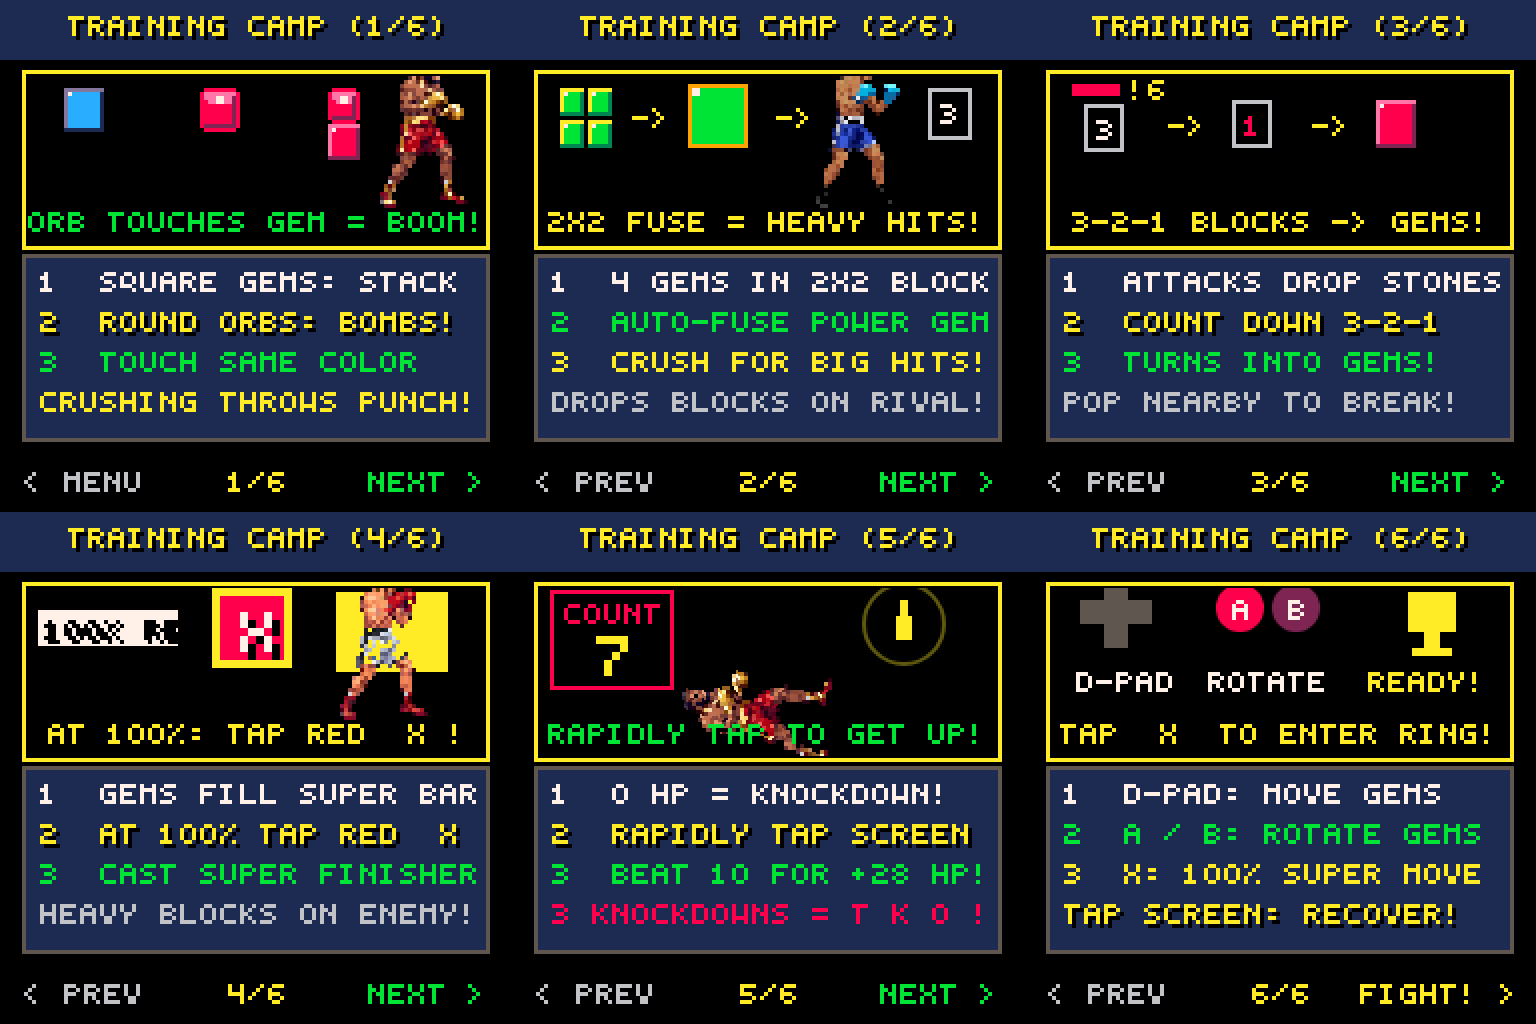
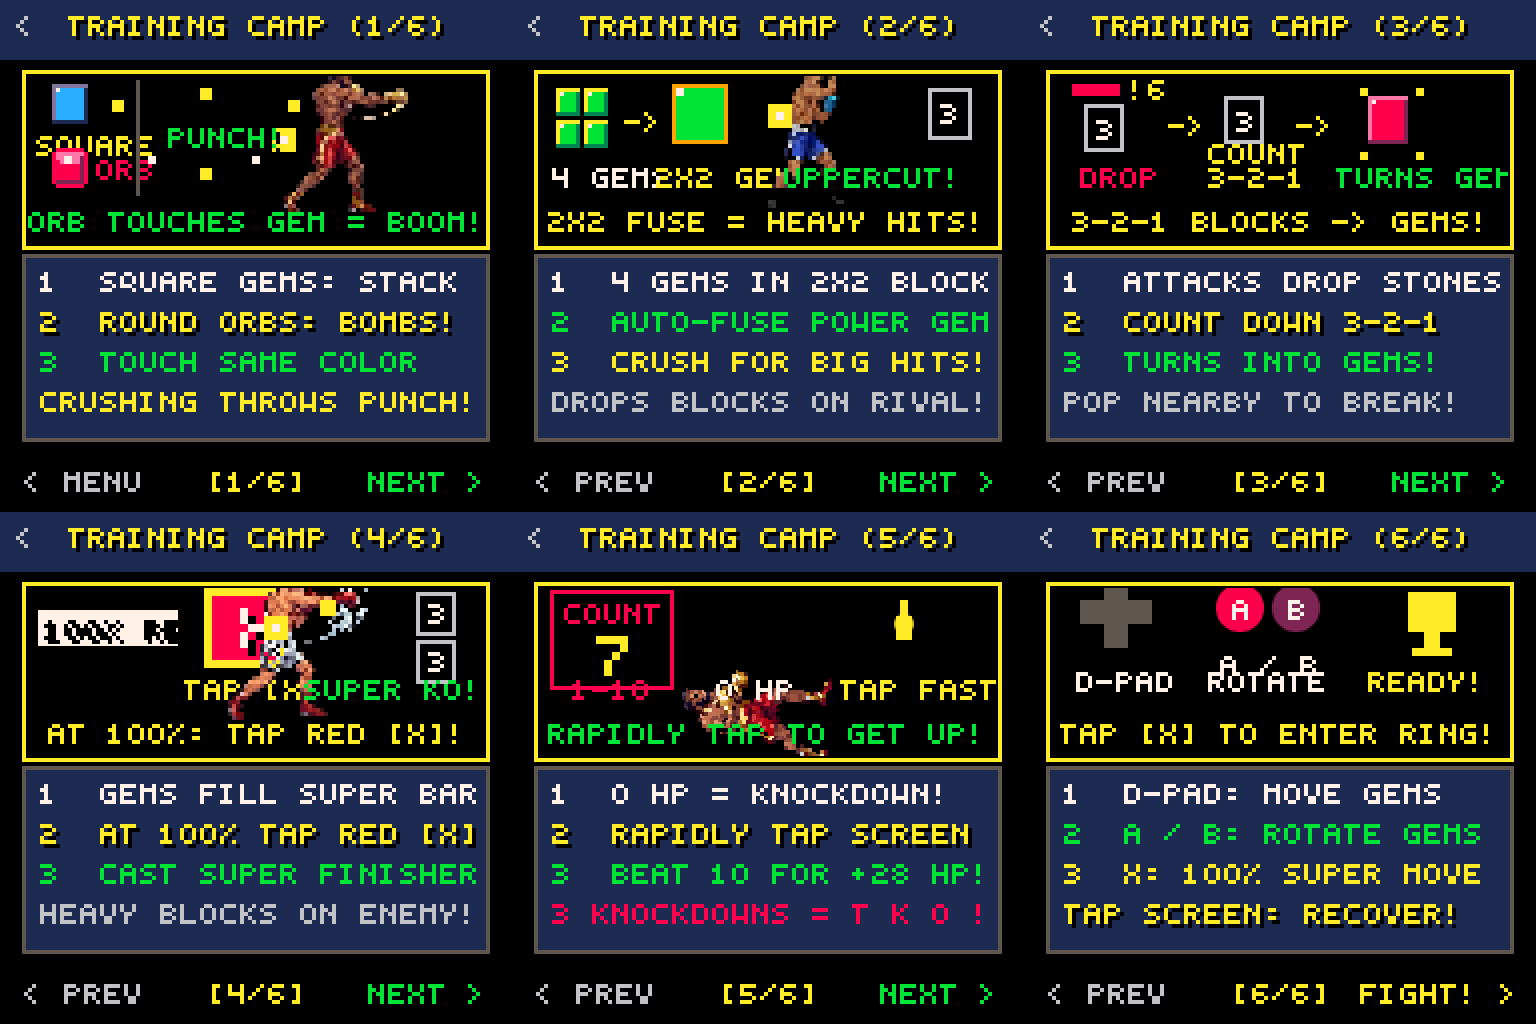
Animate authentic in-game punch and Super Finisher strike sequences
Render live in-game punch sprites and cinematic special finisher in tutorial:
1. Implement drawTutorialBoxerPunch to render authentic in-game punch sprites
   (Quad 0 Jab, Quad 2 Hook, Quad 3 Uppercut).
2. Wire real punch animations into Lesson 1 (Hook on orb impact) and Lesson 2
   (Massive Quad 3 Uppercut on Power Gem explosion).
3. Wire live Super Finisher loop into Lesson 4: Super Meter charges to 100% ->
   360 radial shockwave burst -> Boxer launches into Special KO Uppercut strike
   with speedline aura -> heavy block storm on rival.
4. Add bracket glyphs [ and ] to BITMAP_4X5 font engine and clean up M/W.

Constraint: Strict 128x128 PICO-8 virtual viewport with zero text clipping
Rejected: Static idle poses during attack demonstrations | fails to show gameplay physics
Confidence: high
Scope-risk: narrow
Directive: Maintain drawTutorialBoxerPunch for all future punch animations
Tested: Automated Chrome CDP test capturing all 6 pages with 0 console errors
Not-tested: none

diff --git a/index.html b/index.html
@@ -3,7 +3,7 @@
 <head>
   <meta charset="UTF-8">
   <meta name="viewport" content="width=device-width, initial-scale=1.0, maximum-scale=1.0, user-scalable=no, viewport-fit=cover">
-  <title>CRASH OUT: RING RUSH (v3.7.1) — 6-Lesson Visual Training Camp</title>
+  <title>CRASH OUT: RING RUSH (v3.7.2) — Authentic Punch & Super Finisher Visuals</title>
   <style>
     :root {
       --pico-black: #000000;
@@ -3805,11 +3805,11 @@
       '/': ['0001','0010','0100','1000','0000'],
       '>': ['1000','0100','0010','0100','1000'],
       '<': ['0010','0100','1000','0100','0010'],
+      '[': ['0110','0100','0100','0100','0110'],
+      ']': ['0110','0010','0010','0010','0110'],
       '(': ['0010','0100','0100','0100','0010'],
       ')': ['0100','0010','0010','0010','0100'],
       '!': ['0100','0100','0100','0000','0100'],
-      '?': ['1110','0001','0110','0000','0100'],
-      '$': ['0100','1111','0100','1111','0100'],
       '%': ['1001','0010','0100','1000','1001'],
       '@': ['0110','1001','1011','1000','0111'],
       '*': ['0000','1001','0110','1001','0000'],
@@ -3973,7 +3973,7 @@
       if (Math.floor(globalFrameCount / 22) % 2 === 0) {
         printPicoCenter('PRESS START / TOUCH', 109, 10, 1, true);
       }
-      printPicoCenter('OBEATS STUDIOS 2026  BUILD 3.7.1', 121, 6, 1);
+      printPicoCenter('OBEATS STUDIOS 2026  BUILD 3.7.2', 121, 6, 1);
     }
 
     // === MODE SELECT RENDERER ===
@@ -4120,6 +4120,21 @@
       }
     }
 
+    // ── Authentic In-Game Boxer Punch Sprite Renderer for Training Camp ──
+    function drawTutorialBoxerPunch(ctx, f, x, y, punchQuad = 3, flip = false) {
+      if (!f) return;
+      const fId = f.id || 'broner';
+      const punchHolder = ROSTER_PUNCH_CANVASES[fId] || (fId === 'deen' ? deenPunchCanvas : bronerPunchCanvas);
+      ctx.save();
+      ctx.translate(x, y);
+      if (flip) ctx.scale(-1, 1);
+      if (punchHolder && punchHolder.quadSprites && punchHolder.quadSprites[punchQuad]) {
+        ctx.drawImage(punchHolder.quadSprites[punchQuad], -24, -48, 48, 48);
+      } else {
+        drawBoxerAvatar(ctx, f, 0, 0, true, false, false);
+      }
+      ctx.restore();
+    }
     function drawTutorialScreen() {
       ctx.fillStyle = getPalColor(0);
       ctx.fillRect(0, 0, 128, 128);
@@ -4127,7 +4142,9 @@
       // Header Bar
       ctx.fillStyle = getPalColor(1);
       ctx.fillRect(0, 0, 128, 15);
+      printPico('<', 4, 4, 6, 1);
       printPicoCenter(`TRAINING CAMP (${tutorialPage + 1}/6)`, 4, 10, 1, true);
+
       // ── Visual Pixel-Art Animated Diorama Box (X: 6..122, Y: 18..62, H: 44) ──
       ctx.fillStyle = getPalColor(0);
       ctx.fillRect(6, 18, 116, 44);
@@ -4140,87 +4157,132 @@
       ctx.rect(7, 19, 114, 42);
       ctx.clip();
 
-      const animT = Math.floor(globalFrameCount * 0.1) % 60;
+      const loopFrame = globalFrameCount % 100;
 
       if (tutorialPage === 0) {
-        // ── Lesson 1: Match & Crush (Square Gems vs Round Crash Orbs) ──
-        // 1. Left: Blue Square Gem
-        drawTutorialGem(ctx, 16, 22, 2, false, 3, 10, 11);
+        // ── Lesson 1: Match & Crush (Live Animated Drop -> Impact -> Explosion -> Punch!) ──
+        // 1. Left side: Static visual reference for comparing Square Gem vs Round Orb
+        drawTutorialGem(ctx, 13, 21, 2, false, 3, 9, 10); // Blue Square Gem
+        printPico('SQUARE', 9, 34, 10, 1);
+        drawTutorialGem(ctx, 13, 37, 5, false, 3, 9, 10, true); // Red Round Orb
+        printPico('ORB', 24, 40, 8, 1, true);
 
-        // 2. Middle: Glowing Red Crash Orb (Pulsing)
-        drawTutorialGem(ctx, 50, 22, 5, false, 3, 10, 11, true);
+        // Vertical divider
+        ctx.fillStyle = getPalColor(5);
+        ctx.fillRect(34, 20, 1, 29);
 
-        // 3. Right: Detonation Reaction & Boxer Punch
-        const isDet = (animT > 25);
-        if (!isDet) {
-          drawTutorialGem(ctx, 82, 22, 5, false, 3, 8, 9, true);
-          drawTutorialGem(ctx, 82, 31, 1, false, 3, 8, 9);
-        } else {
+        // 2. Right side: Live Animated Demonstration Area
+        const stackX = 46;
+        if (loopFrame < 40) {
+          // Phase 1: Stack sitting + Orb dropping
+          drawTutorialGem(ctx, stackX, 39, 1, false, 3, 8, 9);
+          drawTutorialGem(ctx, stackX, 30, 1, false, 3, 8, 9);
+          const dropProgress = Math.min(1.0, loopFrame / 35.0);
+          const orbY = 19 + Math.floor(dropProgress * 3.0);
+          drawTutorialGem(ctx, stackX, orbY, 5, false, 3, 8, 9, true);
+          drawBoxerAvatar(ctx, ROSTER[0], 102, 54, false, false, false);
+        } else if (loopFrame < 52) {
+          // Phase 2: CONTACT & WHITE/GOLD IMPACT FLASH!
+          const flashOn = (Math.floor(globalFrameCount / 2) % 2 === 0);
+          ctx.fillStyle = flashOn ? getPalColor(7) : getPalColor(10);
+          ctx.fillRect(stackX - 2, 22, 12, 28);
+          const ripR = (loopFrame - 40) * 2;
+          ctx.strokeStyle = `rgba(255, 236, 39, ${Math.max(0, 1 - ripR / 22)})`;
+          ctx.lineWidth = 1;
+          ctx.beginPath(); ctx.arc(stackX + 4, 34, ripR, 0, Math.PI * 2); ctx.stroke();
+          drawBoxerAvatar(ctx, ROSTER[0], 98, 54, false, false, false);
+        } else if (loopFrame < 85) {
+          // Phase 3: DETONATION & AUTHENTIC BOXER PUNCH LUNGE!
+          const blastTime = loopFrame - 52;
           ctx.fillStyle = getPalColor(10);
-          ctx.fillRect(80, 26, 4, 4); ctx.fillRect(88, 20, 3, 3); ctx.fillRect(78, 34, 3, 3);
+          ctx.fillRect(stackX - blastTime, 32 - Math.floor(blastTime * 0.4), 3, 3);
+          ctx.fillRect(stackX + 8 + blastTime, 32 - Math.floor(blastTime * 0.4), 3, 3);
+          ctx.fillRect(stackX + 4, 32 + Math.floor(blastTime * 0.6), 3, 3);
+          ctx.fillRect(stackX + 4, 32 - Math.floor(blastTime * 0.6), 3, 3);
           ctx.fillStyle = getPalColor(7);
-          ctx.fillRect(84, 24, 2, 2); ctx.fillRect(82, 32, 2, 2);
-        }
-        drawBoxerAvatar(ctx, ROSTER[0], 106, 52, false, false, false);
+          ctx.fillRect(stackX - Math.floor(blastTime * 0.5), 32 + Math.floor(blastTime * 0.4), 2, 2);
+          ctx.fillRect(stackX + 8 + Math.floor(blastTime * 0.5), 32 + Math.floor(blastTime * 0.4), 2, 2);
 
+          // Real HOOK Punch Sprite (Quad 2)!
+          drawTutorialBoxerPunch(ctx, ROSTER[0], 86, 54, 2, false);
+          ctx.fillStyle = getPalColor(10);
+          ctx.fillRect(68, 32, 6, 6);
+          ctx.fillStyle = getPalColor(7);
+          ctx.fillRect(70, 34, 2, 2);
+          printPico('PUNCH!', 42, 32, 11, 1, true);
+        } else {
+          drawBoxerAvatar(ctx, ROSTER[0], 102, 54, false, false, false);
+        }
         printPicoCenter('ORB TOUCHES GEM = BOOM!', 53, 11, 1, true);
 
       } else if (tutorialPage === 1) {
-        // ── Lesson 2: Power Gems (Fusion & Heavy Hits) ──
-        // 1. Left: 4 Individual Green Crystal Gems (2x2 Grid)
-        drawTutorialGem(ctx, 12, 22, 3, false, 3, 6, 7);
-        drawTutorialGem(ctx, 19, 22, 3, false, 3, 6, 7);
-        drawTutorialGem(ctx, 12, 30, 3, false, 3, 6, 7);
-        drawTutorialGem(ctx, 19, 30, 3, false, 3, 6, 7);
+        // ── Lesson 2: Power Gems (Fusion & Authentic Uppercut Strike) ──
+        const loopFrame = globalFrameCount % 100;
+        // 1. Left: 4 Individual Green Crystal Gems in 2x2 Grid
+        drawTutorialGem(ctx, 11, 22, 3, false, 3, 6, 7);
+        drawTutorialGem(ctx, 18, 22, 3, false, 3, 6, 7);
+        drawTutorialGem(ctx, 11, 30, 3, false, 3, 6, 7);
+        drawTutorialGem(ctx, 18, 30, 3, false, 3, 6, 7);
+        printPico('4 GEMS', 10, 42, 7, 1);
 
-        // 2. Arrow
+        // 2. Fusion Arrow
         ctx.fillStyle = getPalColor(10);
-        printPico('->', 30, 27, 10, 1, true);
+        printPico('->', 28, 28, 10, 1, true);
 
         // 3. Center: Giant Fused 2x2 Power Gem with Pulsing Gold Outline
-        drawTutorialGem(ctx, 44, 21, 3, true, 3, 15, 16, true);
+        drawTutorialGem(ctx, 40, 21, 3, true, 3, 14, 15, true);
+        printPico('2X2 GEM', 36, 42, 10, 1, true);
 
-        // 4. Arrow -> Uppercut & Counter Block
-        ctx.fillStyle = getPalColor(10);
-        printPico('->', 66, 27, 10, 1, true);
-        drawBoxerAvatar(ctx, ROSTER[1], 86, 52, true, false, false);
-        drawTutorialGem(ctx, 104, 22, 10, false, 3, 11, 13);
-
+        // 4. Right: Authentic Uppercut Punch Animation (Quad 3) & Counter Blocks
+        if (loopFrame > 35 && loopFrame < 88) {
+          // Real UPPERCUT Punch Sprite (Quad 3)!
+          drawTutorialBoxerPunch(ctx, ROSTER[1], 74, 52, 3, false);
+          ctx.fillStyle = getPalColor(10);
+          ctx.fillRect(64, 26, 6, 6);
+          ctx.fillStyle = getPalColor(7);
+          ctx.fillRect(66, 28, 2, 2);
+          drawTutorialGem(ctx, 104, 22, 10, false, 3, 11, 13);
+          printPico('UPPERCUT!', 68, 42, 11, 1, true);
+        } else {
+          drawBoxerAvatar(ctx, ROSTER[1], 84, 52, true, false, false);
+          drawTutorialGem(ctx, 104, 22, 10, false, 3, 11, 13);
+          printPico('BLOCKS', 98, 42, 8, 1);
+        }
         printPicoCenter('2X2 FUSE = HEAVY HITS!', 53, 10, 1, true);
 
       } else if (tutorialPage === 2) {
         // ── Lesson 3: Counter Blocks & Garbage Mechanics ──
-        // 1. Left: Incoming Warning Tray & Stone Block with Timer 3
         ctx.fillStyle = getPalColor(8);
         ctx.fillRect(12, 21, 12, 3);
         printPico('!6', 26, 20, 10, 1);
         drawTutorialGem(ctx, 15, 26, 10, false, 3, 10, 12);
+        printPico('DROP', 14, 42, 8, 1);
 
-        // 2. Arrow
         ctx.fillStyle = getPalColor(10);
         printPico('->', 36, 29, 10, 1, true);
 
-        // 3. Center: Timer Countdown stepping 3 -> 2 -> 1
         const stepTimer = (Math.floor(globalFrameCount / 18) % 3) + 1;
         const displayTimer = (4 - stepTimer);
-        drawTutorialGem(ctx, 52, 25, 10, false, displayTimer, 10, 12);
+        drawTutorialGem(ctx, 50, 24, 10, false, displayTimer, 10, 12);
+        printPico('COUNT', 46, 36, 10, 1);
+        printPico('3-2-1', 46, 42, 10, 1);
 
-        // 4. Arrow
         ctx.fillStyle = getPalColor(10);
-        printPico('->', 72, 29, 10, 1, true);
+        printPico('->', 68, 29, 10, 1, true);
 
-        // 5. Right: Stone turns into usable normal red gem!
-        drawTutorialGem(ctx, 88, 25, 1, false, 3, 10, 12);
+        drawTutorialGem(ctx, 86, 24, 1, false, 3, 10, 12);
         if (Math.floor(globalFrameCount / 8) % 2 === 0) {
           ctx.fillStyle = getPalColor(10);
-          ctx.fillRect(86, 23, 2, 2); ctx.fillRect(100, 23, 2, 2);
-          ctx.fillRect(86, 38, 2, 2); ctx.fillRect(100, 38, 2, 2);
+          ctx.fillRect(84, 22, 2, 2); ctx.fillRect(98, 22, 2, 2);
+          ctx.fillRect(84, 38, 2, 2); ctx.fillRect(98, 38, 2, 2);
         }
-
+        printPico('TURNS GEM', 78, 42, 11, 1, true);
         printPicoCenter('3-2-1 BLOCKS -> GEMS!', 53, 10, 1, true);
 
       } else if (tutorialPage === 3) {
-        // ── Lesson 4: Super Meter & 100% Finisher ──
+        // ── Lesson 4: Super Finisher & Cinematic KO Attack ──
+        const loopFrame = globalFrameCount % 100;
+
         // 1. Left: Full Super Meter Bar
         ctx.fillStyle = getPalColor(1);
         ctx.fillRect(10, 25, 34, 8);
@@ -4232,60 +4294,83 @@
 
         // 2. Center: Pulsing Red [X / SUPER] Action Button
         ctx.fillStyle = getPalColor(8);
-        ctx.fillRect(54, 20, 18, 18);
+        ctx.fillRect(52, 20, 18, 18);
         ctx.strokeStyle = (Math.floor(globalFrameCount / 5) % 2 === 0) ? getPalColor(10) : getPalColor(7);
         ctx.lineWidth = 2;
-        ctx.strokeRect(54, 20, 18, 18);
+        ctx.strokeRect(52, 20, 18, 18);
         ctx.lineWidth = 1;
-        printPicoCenter('X', 25, 7, 2, true);
+        printPicoCenter('X', 24, 7, 2, true);
+        printPico('TAP [X]', 46, 42, 10, 1, true);
 
-        // 3. Right: Boxer special attack avatar with particle blast
-        ctx.fillStyle = getPalColor(10);
-        ctx.fillRect(84, 20, 28, 20);
-        drawBoxerAvatar(ctx, ROSTER[2], 96, 52, true, false, false);
+        // 3. Right: Live Cinematic Special Strike Animation (Quad 3 Uppercut / Special Finisher)
+        if (loopFrame > 35 && loopFrame < 88) {
+          // 360 Radial Super Burst Shockwave
+          const burstR = (loopFrame - 35) * 1.5;
+          ctx.strokeStyle = `rgba(255, 236, 39, ${Math.max(0, 1 - burstR / 30)})`;
+          ctx.lineWidth = 2;
+          ctx.beginPath(); ctx.arc(58, 29, burstR, 0, Math.PI * 2); ctx.stroke();
+          ctx.lineWidth = 1;
 
+          // Real SPECIAL UPPERCUT FINISHER SPRITE (Quad 3)!
+          drawTutorialBoxerPunch(ctx, ROSTER[2], 74, 52, 3, false);
+
+          // Golden shockwave particle trail
+          ctx.fillStyle = getPalColor(10);
+          ctx.fillRect(66, 26, 6, 6);
+          ctx.fillRect(80, 22, 4, 4);
+          ctx.fillStyle = getPalColor(7);
+          ctx.fillRect(68, 28, 2, 2);
+
+          // Storm of stone blocks crashing down on rival
+          drawTutorialGem(ctx, 104, 20, 10, false, 3, 10, 11);
+          drawTutorialGem(ctx, 104, 32, 10, false, 3, 10, 11);
+          printPico('SUPER KO!', 76, 42, 11, 1, true);
+        } else {
+          drawBoxerAvatar(ctx, ROSTER[2], 94, 52, true, false, false);
+          printPico('READY', 88, 42, 10, 1);
+        }
         printPicoCenter('AT 100%: TAP RED [X]!', 53, 10, 1, true);
 
       } else if (tutorialPage === 4) {
         // ── Lesson 5: Knockdown 10-Count Survival ──
-        // 1. Left: Referee Count Box
         ctx.fillStyle = 'rgba(0,0,0,0.92)';
         ctx.fillRect(10, 20, 30, 24);
         ctx.strokeStyle = getPalColor(8);
         ctx.strokeRect(10, 20, 30, 24);
         printPico('COUNT', 13, 23, 8, 1);
         printPico('7', 21, 31, 10, 2, true);
+        printPico('1-10', 15, 42, 8, 1);
 
-        // 2. Center: Boxer flat on canvas (grounded cleanly at Y=50)
+        // Boxer flat on canvas cleanly at Y=50
         drawBoxerAvatar(ctx, ROSTER[0], 58, 50, true, false, true);
+        printPico('0 HP', 51, 42, 7, 1);
 
-        // 3. Right: Animated Tap Finger & Expanding Ripples
+        // Animated Tap Finger & Expanding Ripples
         const tapRip = (Math.floor(globalFrameCount * 0.8) % 14) + 2;
         ctx.strokeStyle = `rgba(255, 236, 39, ${Math.max(0, 1 - tapRip / 16)})`;
         ctx.beginPath(); ctx.arc(98, 28, tapRip, 0, Math.PI * 2); ctx.stroke();
         ctx.fillStyle = getPalColor(10);
         ctx.fillRect(96, 26, 4, 6); ctx.fillRect(97, 22, 2, 5);
+        printPico('TAP FAST!', 82, 42, 10, 1, true);
 
         printPicoCenter('RAPIDLY TAP TO GET UP!', 53, 11, 1, true);
 
       } else {
         // ── Lesson 6: Mobile Touch Controls & Ready to Fight ──
-        // 1. Left: Virtual D-Pad Icon
         ctx.fillStyle = getPalColor(5);
         ctx.fillRect(14, 22, 18, 6);
         ctx.fillRect(20, 16, 6, 18);
         printPico('D-PAD', 13, 40, 7, 1);
 
-        // 2. Center: Action Buttons A/B & X
         ctx.fillStyle = getPalColor(8);
         ctx.beginPath(); ctx.arc(54, 24, 6, 0, Math.PI * 2); ctx.fill();
         printPico('A', 52, 22, 7, 1);
         ctx.fillStyle = getPalColor(2);
         ctx.beginPath(); ctx.arc(68, 24, 6, 0, Math.PI * 2); ctx.fill();
         printPico('B', 66, 22, 7, 1);
+        printPico('A / B', 49, 36, 7, 1);
         printPico('ROTATE', 46, 40, 7, 1);
 
-        // 3. Right: Gold Trophy
         ctx.fillStyle = getPalColor(10);
         ctx.fillRect(96, 20, 12, 10);
         ctx.fillRect(100, 30, 4, 4);

diff --git a/README.md b/README.md
@@ -1,6 +1,6 @@
 # 🥊 CRASH OUT: RING RUSH — The Ultimate Adrien Broner, Deen The Great & COB (Crash Out Boys) Retro Puzzle Boxing Game
 
-[![Game Version](https://img.shields.io/badge/Version-v3.7.1-FF004D?style=for-the-badge&logo=retro-arch&logoColor=white)](https://officebeats.github.io/beats-social-media-boxer-game/)
+[![Game Version](https://img.shields.io/badge/Version-v3.7.2-FF004D?style=for-the-badge&logo=retro-arch&logoColor=white)](https://officebeats.github.io/beats-social-media-boxer-game/)
 [![Engine](https://img.shields.io/badge/Engine-PICO--8%20%2F%20HTML5%20Canvas-00E436?style=for-the-badge&logo=html5&logoColor=white)](https://officebeats.github.io/beats-social-media-boxer-game/)
 [![Frame Rate](https://img.shields.io/badge/Performance-Locked%2060%20FPS-29ADFF?style=for-the-badge&logo=speedtest&logoColor=white)](https://officebeats.github.io/beats-social-media-boxer-game/)
 [![Play Live Online](https://img.shields.io/badge/Play%20Live-GitHub%20Pages-FFEC27?style=for-the-badge&logo=github&logoColor=black)](https://officebeats.github.io/beats-social-media-boxer-game/)
